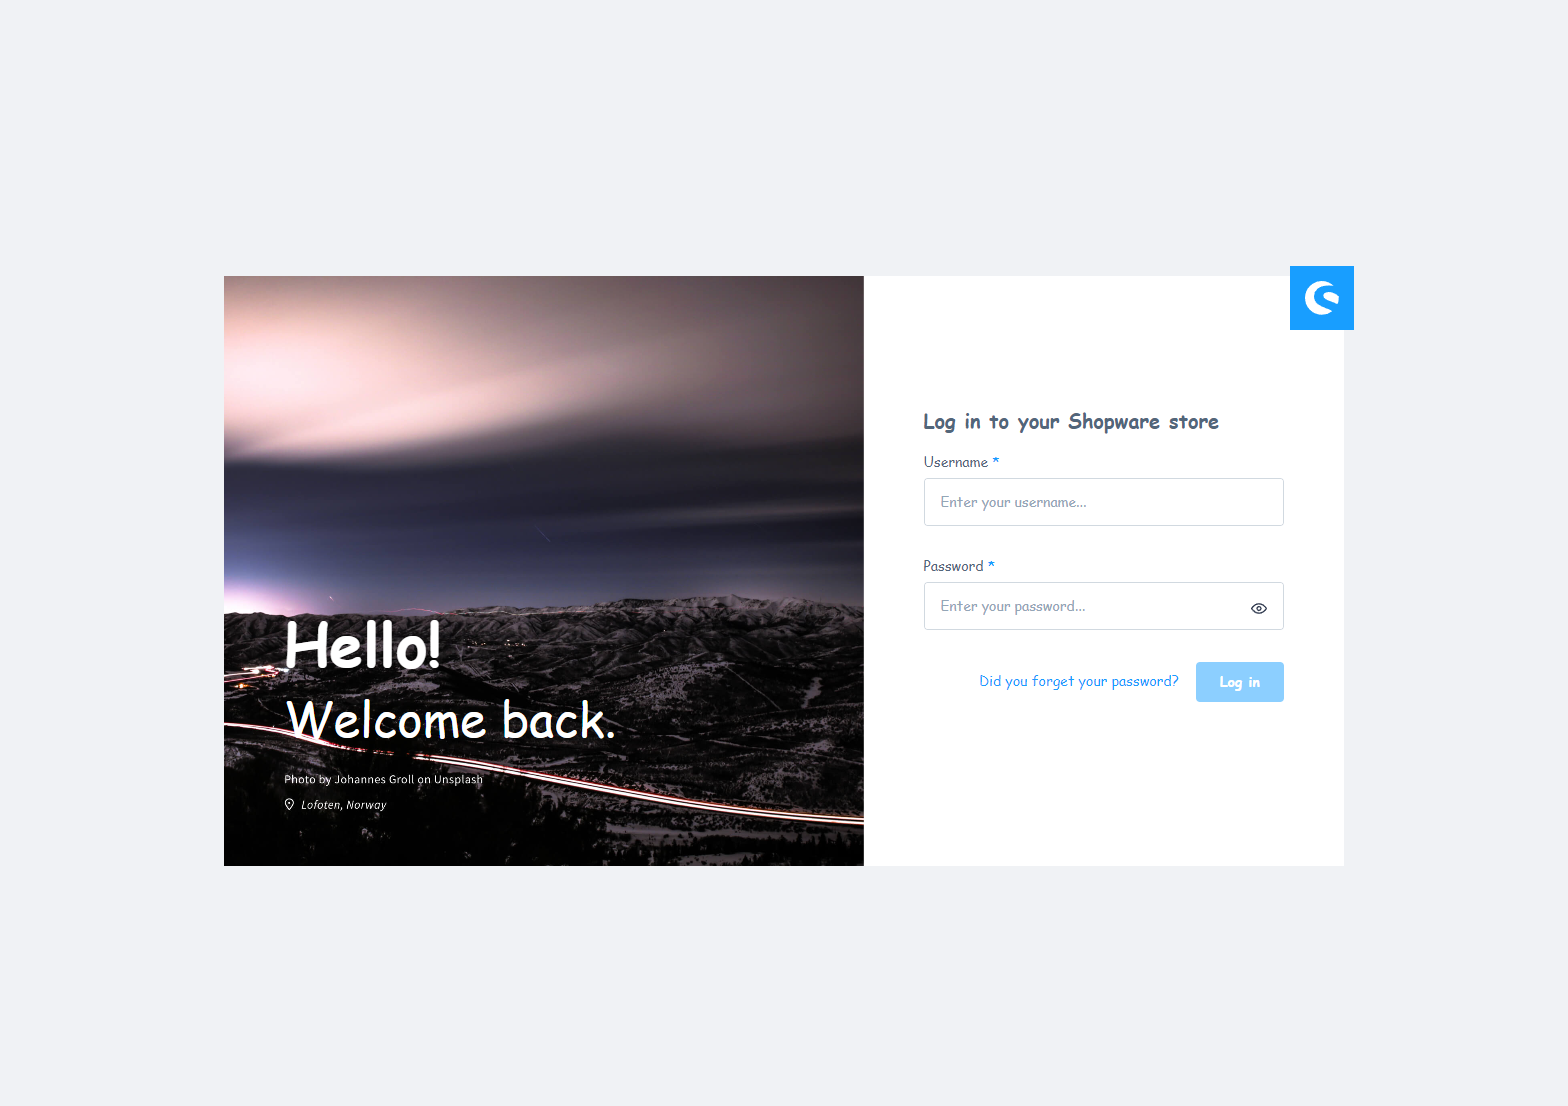
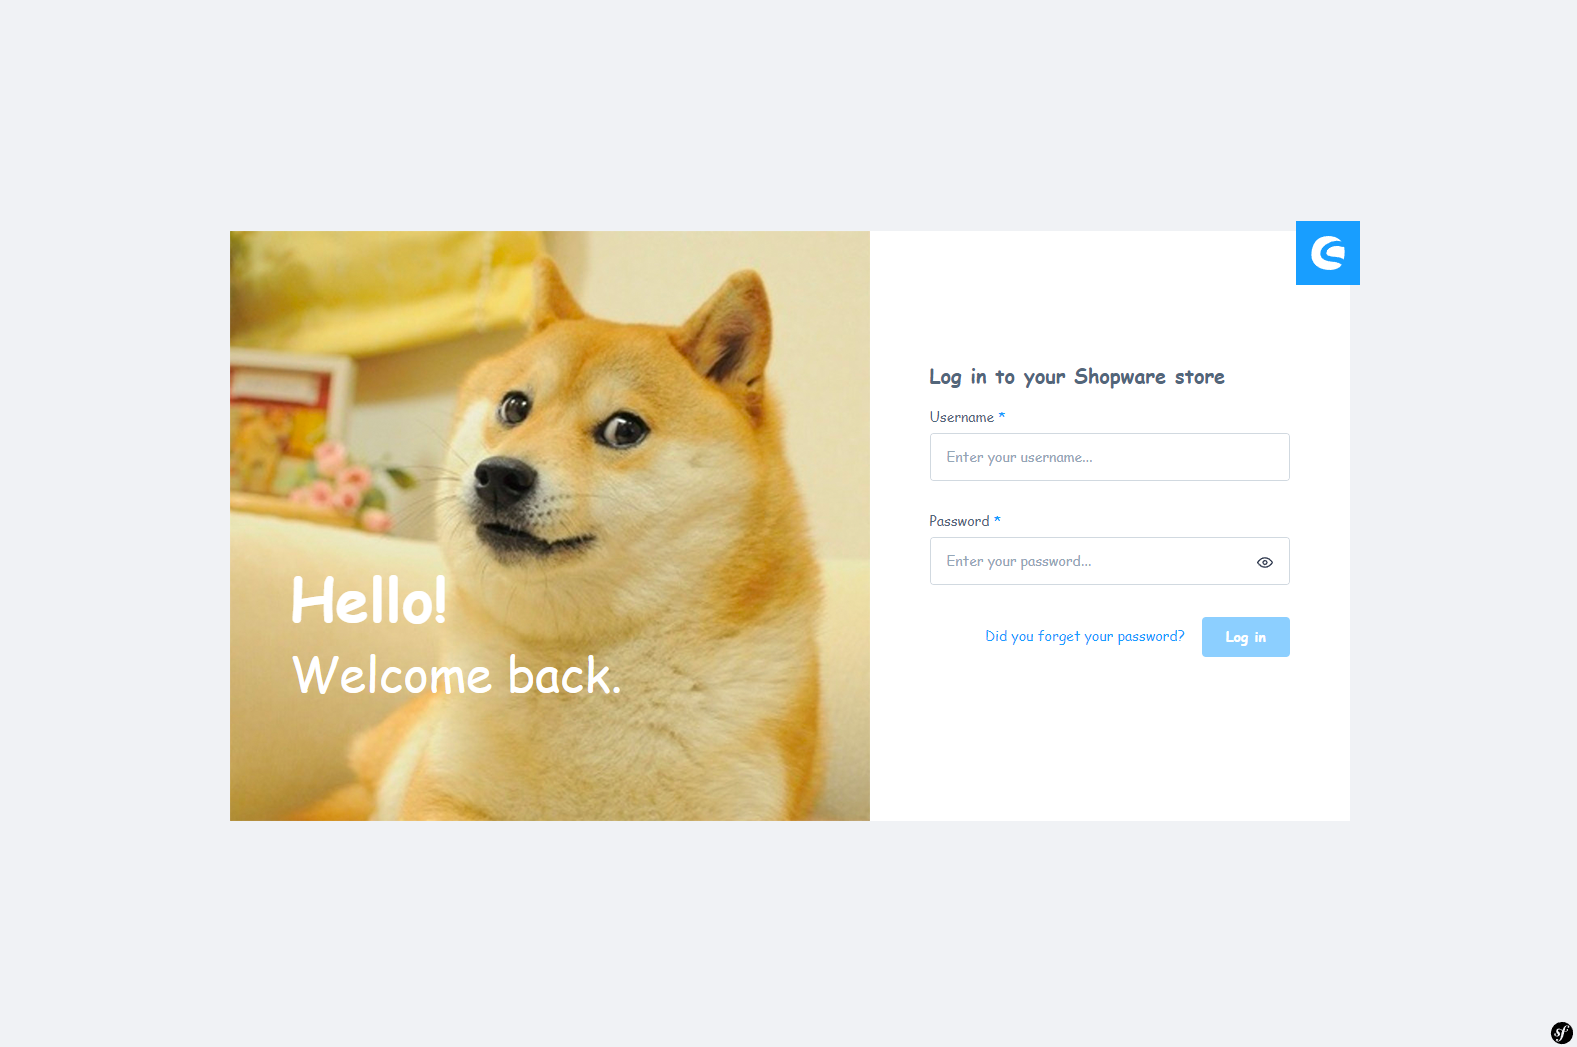
feat: update plugin-label [store update]

diff --git a/src/Resources/store/de.md b/src/Resources/store/de.md
@@ -1,5 +1,5 @@
 Fun-Project:  
-Dieses Plugin ist eine Revolution für die Administration! Mit einer intuitiven Benutzeroberfläche und optimierten Funktionen war das Verwalten von Aufgaben noch nie einfacher.
+Dieses Plugin ist eine Revolution für die Administration! Wir verwenden in der Administration u.a. die beliebte Comic Sans und ein Hund begrüßt dich beim Login.
 
 Dieses Plugin wird von [@FriendsOfShopware](https://store.shopware.com/friends-of-shopware.html) entwickelt.  
 Maintainer dieses Plugins ist: [Sebastian König (tinect)](https://github.com/tinect)

diff --git a/src/Resources/store/en.md b/src/Resources/store/en.md
@@ -1,5 +1,5 @@
 Fun-Project:  
-This plugin is a game-changer for administration! With an intuitive interface and streamlined features, managing your administration has never been better.
+This plugin is a game-changer for administration! We use the popular Comic Sans in administration, among other things, and a dog greets you when you log in.
 
 This plugin is part of [@FriendsOfShopware](https://store.shopware.com/en/friends-of-shopware.html).  
 Maintainer from the plugin is: [Sebastian König (tinect)](https://github.com/tinect)
